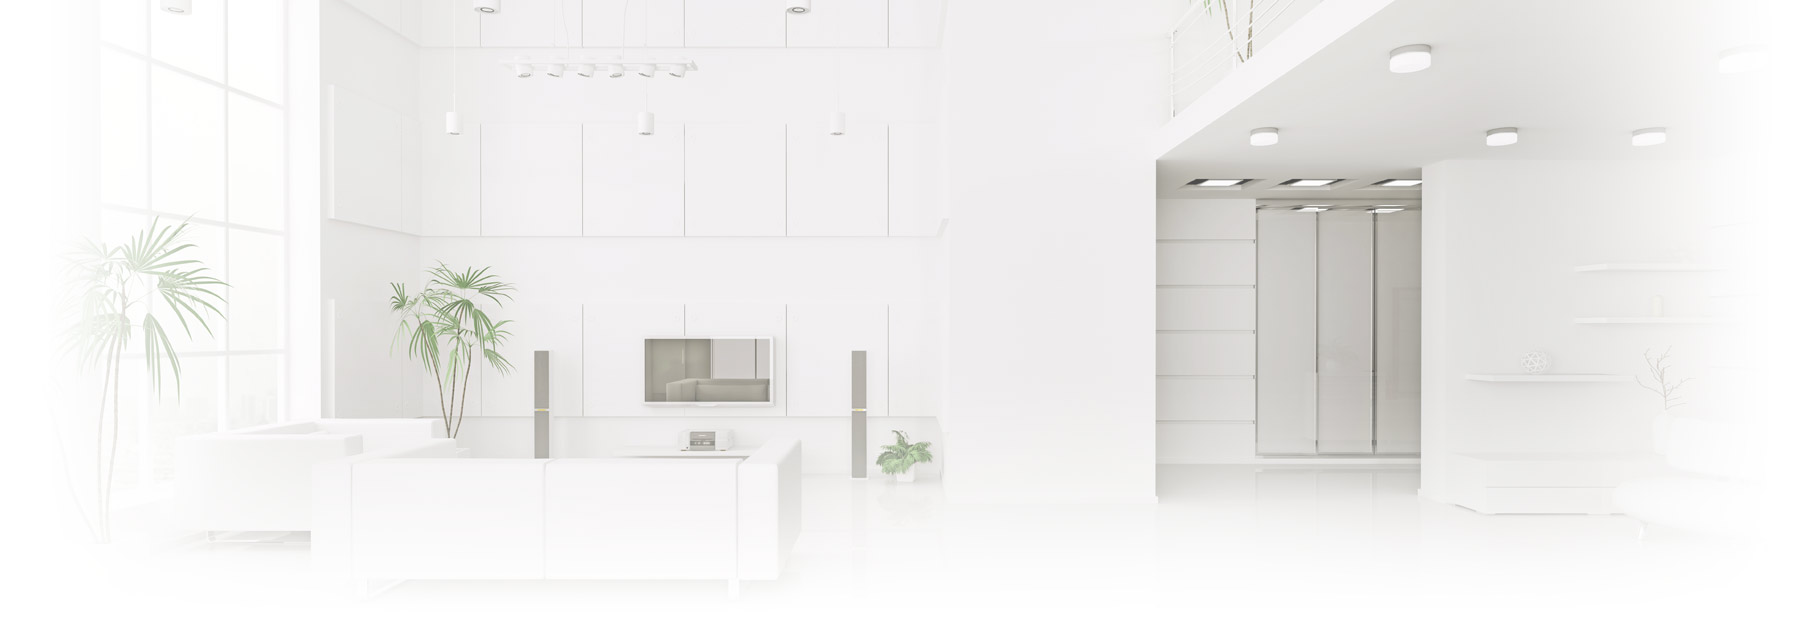
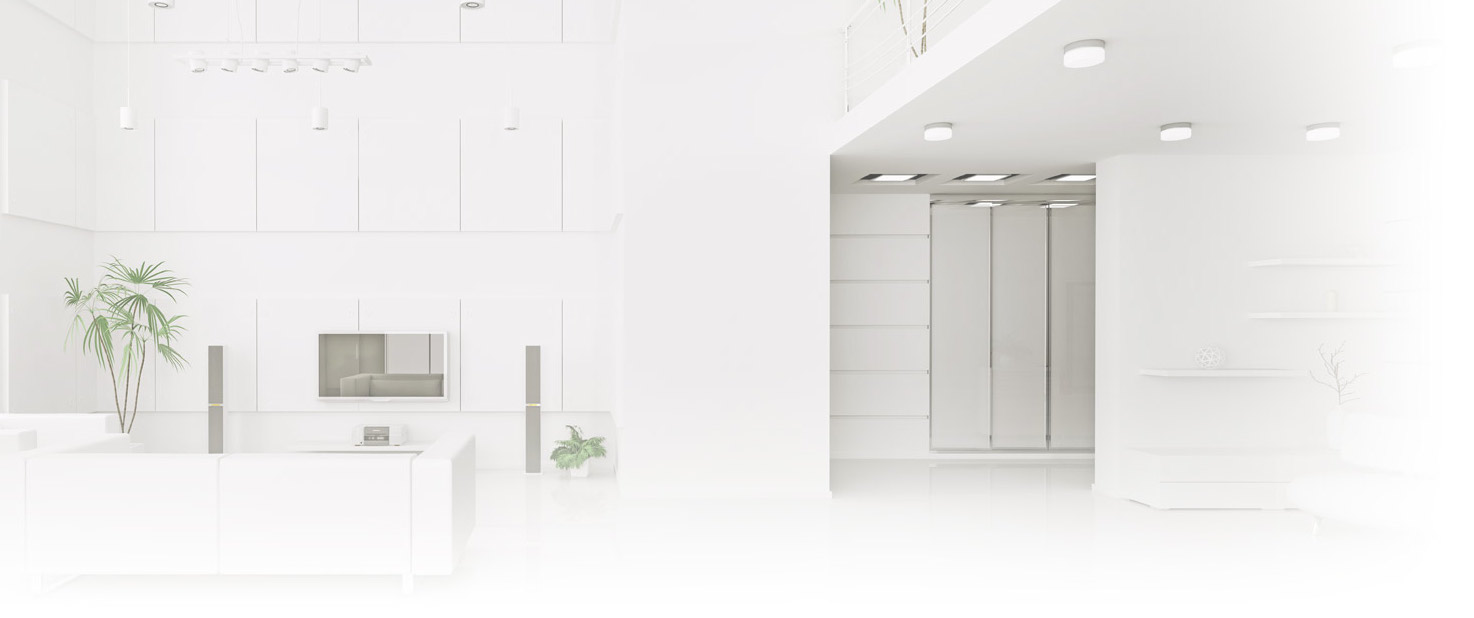
Completed modal and contact page

diff --git a/static/static/css/style.css b/static/static/css/style.css
@@ -34,7 +34,7 @@ header{float: left;}
 .phone1 .txt1{font-size: 14px; color: #fff; line-height: 20px;}
 .phone1 .txt2{font-size: 26px; color: #fff; line-height: 30px; font-weight: 700;}
 
-.shadow1{vertical-align: top; line-height: 1px;}
+.shadow1{vertical-align: top; line-height: 1px; margin-bottom:-90px;}
 .shadow1 img{width: 100%;}
 
 
@@ -162,10 +162,39 @@ transition: all 0.3s ease-out; -moz-transition: all 0.3s ease-out; -webkit-trans
 #modal-form input{background: #DEEEFC; border: 1px solid #516B82; color: #686868; padding-top: 10px; padding-bottom: 10px; border-radius:7px; -moz-border-radius:7px; -webkit-border-radius:7px; -moz-box-shadow: inset  0px 3px 20px 3px  #f6f4f2; -webkit-box-shadow: inset  0px 3px 20px 3px  #f6f4f2; box-shadow: inset  0px 3px 20px 3px  #f6f4f2; width: 100%; display: block;-webkit-box-sizing: border-box; -moz-box-sizing: border-box; box-sizing: border-box; height: auto;}
 #modal-form input:focus {border-color:#686868; }
 #modal-form img{float:left; width:170px; height:42px;margin-bottom: 10px;}
-#modal-form .submit{border: 0; margin: 0; display: inline-block;height: 44px; line-height:44px;  text-decoration: none;font-size:18px; font-family:'Roboto'; font-weight: 700; color:#fff; white-space:nowrap; letter-spacing:0px; background:#32A4C9; padding:0px 30px; border-radius:5px; -moz-border-radius:5px; -webkit-border-radius:5px;
+#modal-form .submit{border: 0; margin: 0; display: inline-block;height: 44px; line-height:44px;  text-decoration: none;font-size:18px; font-family:'Roboto'; font-weight: 700; color:#fff; white-space:nowrap; letter-spacing:0px; background:#32A4C9; padding:0px 20%; border-radius:5px; -moz-border-radius:5px; -webkit-border-radius:5px;
 transition: all 0.3s ease-out; -moz-transition: all 0.3s ease-out; -webkit-transition: all 0.3s ease-out; -o-transition: all 0.3s ease-out;
 }
 #modal-form .submit:hover{ color:#fff; background: #308fae;}
+#myModalLabel { font-family:'Roboto'; font-weight:700; font-size:28px; color:#535353; line-height:35px; padding:25px 0 20px 0; margin: 0;}
+
+#modal-btn{
+border: 0; 
+margin: 0;
+position: fixed;
+display: inline-block;
+top: 350px;
+z-index: 100;
+right: -77px;
+height: 22px; 
+line-height:20px;  
+text-decoration: none;
+font-size:18px; 
+font-family:'Roboto'; 
+font-weight: 700; 
+color:#fff; 
+white-space:nowrap; 
+letter-spacing:0px; 
+background:#32A4C9; 
+padding:0px 15px; 
+transform:rotate(90deg);
+-ms-transform:rotate(90deg);
+-webkit-transform:rotate(90deg);
+border-radius:11px; 
+-moz-border-radius:11px; 
+-webkit-border-radius:11px;
+}
+#modal-btn:hover{ color:#fff; background: #308fae;}
 
 
 /* ============================= main layout ====================== */
@@ -360,16 +389,22 @@ transition: all 0.3s ease-out; -moz-transition: all 0.3s ease-out; -webkit-trans
 #ajax-contact-form .control-group{margin-bottom: 10px;}
 #ajax-contact-form .control-label{display: none;}
 #ajax-contact-form .controls{margin-left: 0;}
-#ajax-contact-form input, #ajax-contact-form textarea{background: #fff; border: 1px solid #e3e2e2; color: #686868; padding-top: 10px; padding-bottom: 10px; border-radius:0px; -moz-border-radius:0px; -webkit-border-radius:0px; -moz-box-shadow: inset  0px 3px 20px 3px  #f6f4f2; -webkit-box-shadow: inset  0px 3px 20px 3px  #f6f4f2; box-shadow: inset  0px 3px 20px 3px  #f6f4f2; width: 100%; display: block;-webkit-box-sizing: border-box; -moz-box-sizing: border-box; box-sizing: border-box; height: auto;}
+#ajax-contact-form input, #ajax-contact-form textarea{background: transparent; border: 1px solid #C4C4C4; color: #686868; padding-top: 10px; padding-bottom: 10px; border-radius:5px; -moz-border-radius:5px; -webkit-border-radius:5px; -moz-box-shadow: inset  0px 3px 20px 3px  #f6f4f2; -webkit-box-shadow: inset  0px 3px 20px 3px  #f6f4f2; box-shadow: inset  0px 3px 20px 3px  #f6f4f2; width: 100%; display: block;-webkit-box-sizing: border-box; -moz-box-sizing: border-box; box-sizing: border-box; height: auto;}
 #ajax-contact-form input:focus, #ajax-contact-form textarea:focus{border-color:#686868; }
 #ajax-contact-form textarea{height: 124px;}
 #ajax-contact-form .control-group.capthca{margin-bottom: 0px;}
 #ajax-contact-form .capthca input{width: 126px; float: left; margin-right: 30px;margin-bottom: 10px;}
 #ajax-contact-form img{float:left; width:170px; height:42px;margin-bottom: 10px;}
-#ajax-contact-form .submit{border: 0; margin: 0; display: inline-block;height: 44px; line-height:44px;  text-decoration: none;font-size:18px; font-family:'Roboto'; font-weight: 700; color:#fff; white-space:nowrap; letter-spacing:0px; background:#308fae; padding:0px 30px; border-radius:5px; -moz-border-radius:5px; -webkit-border-radius:5px;
+#ajax-contact-form .submit{border: 0; margin: 0; display: inline-block;height: 44px; line-height:44px;  text-decoration: none;font-size:18px; font-family:'Roboto'; font-weight: 700; color:#fff; white-space:nowrap; letter-spacing:0px; background:#32A4c9; padding:0px 30px; border-radius:5px; -moz-border-radius:5px; -webkit-border-radius:5px;
 transition: all 0.3s ease-out; -moz-transition: all 0.3s ease-out; -webkit-transition: all 0.3s ease-out; -o-transition: all 0.3s ease-out;
 }
-#ajax-contact-form .submit:hover{ color:#fff; background: #be3b3b;}
+#ajax-contact-form .submit:hover{ color:#fff; background: #308FAE;}
+
+/* ========= Contact Table ========== */
+#contact_box {margin-bottom: 20px;}
+#contact_box td{padding: 5px 5%;}
+#contact_box th{padding: 5px 5%;}
+
 
 /*================= 404 =========================*/
 .page-404{text-align: center;}
@@ -458,12 +493,13 @@ transition: all 0.3s ease-out; -moz-transition: all 0.3s ease-out; -webkit-trans
 
 	h2{ font-size:18px; line-height:25px;}
 
-	h3{font-size:18px; line-height:25px;}
+	h3{ font-size:18px; line-height:25px;}
 
 		
 }
 @media (min-width: 481px) and (max-width: 767px) {
 	.banners .banner_inner{padding: 0 80px;}
+   #content {padding-top:65px;}
 
 	
 
@@ -484,7 +520,7 @@ transition: all 0.3s ease-out; -moz-transition: all 0.3s ease-out; -webkit-trans
 
 	.page-404 .txt1{font-size: 150px; line-height: 150px;}
 	.page-404 .txt2{font-size: 50px; line-height: 50px;}
-
+   #content {padding-top:65px;}
 
 
 }

diff --git a/static/templates/contact.html b/static/templates/contact.html
@@ -40,61 +40,78 @@ $(window).load(function() {
 <div class="row">
 <div class="span6">
 
-<h1>Our Location</h1>	
+<h1>Contact Us</h1>	
 
-<h4>Paint Studio</h4>
-<p>
-Kansas City, MO 64106<br>
-Telephone: +1 800 123 1895<br>
-E-mail: <a href="#">mail@bteamny.com</a>
-</p>
-<br>
-<h4>Hours?</h4>
-<p>
-Kansas City, MO 64106<br>
-Telephone: +1 800 123 1895<br>
-E-mail: <a href="#">mail@bteamny.com</a>
-</p>
+<div id="contact_box" class="box3">
+<div class="box3_inner">
+   
+<table>
+<tbody>
+<tr>
+	<th><strong>Address:</strong></th>
+	<td>1616 W. 6th Street<br>
+		 Unit 234<br>
+		 Austin, TX 78703</td>
+</tr>
+<tr>
+	<th><strong>Phone:</strong></th>
+	<td><a href="tel:1-512-282-2912">(512) 282-2912</a></td>
+</tr>
+	<tr>
+	<th><strong>Fax:</strong></th>
+	<td><a href="tel:1-512-821-4700">(512) 821-4700</a></td>
+</tr>
+	<tr>
+	<th><strong>Email:</strong></th>
+	<td><a href="mailto:admin@bizwiggle.com">admin@bizwiggle.com</a></td>
+</tr>
+</tbody>
+</table>
+</div>
+</div> 
 
 <figure class="google_map">
-    <iframe src="http://maps.google.com/maps?f=q&amp;source=s_q&amp;hl=en&amp;geocode=&amp;q=Glasgow,&amp;aq=&amp;sll=46.975033,31.994583&amp;sspn=0.368248,0.617294&amp;vpsrc=6&amp;ie=UTF8&amp;hq=&amp;hnear=Glasgow,+Glasgow+City,+United+Kingdom&amp;t=m&amp;ll=55.866932,-4.256344&amp;spn=0.020324,0.070896&amp;z=13&amp;output=embed"></iframe>
+<iframe
+  frameborder="0" style="border:0"
+  src="https://www.google.com/maps/embed/v1/place?key=AIzaSyBgIq9fGzbDd9X1R7TseTnu-f_-ICCLf-0&zoom=13&q=1616+W. 6th Street,Austin+TX">
+</iframe>
+
 </figure>
 
 </div>
 
 <div class="span6">
-<h2>Contact Us</h2>
+<h2>Send Us a Message</h2>
 
 <div id="note"></div>
 <div id="fields">
-	<form id="ajax-contact-form" class="form-horizontal" action="javascript:alert('success!');">
+	<form id="ajax-contact-form" class="form-horizontal" action="">
 		
 		<div class="control-group">
-		    <label class="control-label" for="inputName">Your full name:</label>
+		    <label class="control-label" for="inputName">Name:</label>
 		    <div class="controls">				      
-		      <input class="" type="text" id="inputName" name="name" value="Name:" onBlur="if(this.value=='') this.value='Your full name:'" onFocus="if(this.value =='Your full name:' ) this.value=''">
+		      <input class="" type="text" id="inputName" name="name" value="" placeholder="Name:">
 		    </div>
 		</div>
 
 		<div class="control-group">
 		    <label class="control-label" for="inputEmail">Your email:</label>
 		    <div class="controls">				      
-		      <input class="" type="text" id="inputEmail" name="email" value="Email:" onBlur="if(this.value=='') this.value='Your email:'" onFocus="if(this.value =='Your email:' ) this.value=''">
+		      <input class="" type="text" id="inputEmail" name="email" value="" placeholder="Email:">
 		    </div>
 		</div>
 
 		<div class="control-group">
 		    <label class="control-label" for="inputPhone">Phone number:</label>
 		    <div class="controls">				      
-		      <input class="" type="text" id="inputPhone" name="phone" value="Phone number:" onBlur="if(this.value=='') this.value='Phone number:'" onFocus="if(this.value =='Phone number:' ) this.value=''">
+		      <input class="" type="text" id="inputPhone" name="phone" value="" placeholder="Phone:">
 		    </div>
 		</div>
 
 		<div class="control-group">
 		    <label class="control-label" for="inputMessage">Message:</label>
 		    <div class="controls">				      				      
-		      <textarea class="" id="inputMessage" name="content" onBlur="if(this.value=='') this.value='Message:'" 
-                onFocus="if(this.value =='Message:' ) this.value=''">Message:</textarea>
+		      <textarea class="" id="inputMessage" name="message" value="" placeholder="Message:"></textarea>
 		    </div>
 		</div>
 

diff --git a/static/templates/modal.html b/static/templates/modal.html
@@ -1,6 +1,3 @@
-<!-- Button to trigger modal -->
-<a href="#myModal" role="button" class="btn" data-toggle="modal">Launch demo modal</a>
- 
 <!-- Modal -->
 <div id="myModal" class="modal hide fade" tabindex="-1" role="dialog" aria-labelledby="myModalLabel" aria-hidden="true">
   <div class="modal-header">
@@ -30,8 +27,9 @@
             <input class="" type="text" id="inputPhone" name="phone" placeholder="Phone: ">
           </div>
       </div>
+    <div class="text-center">
     <button type="submit" class="submit">Submit</button>
- 
+    </div>
    </form>
    </div>
 </div>

diff --git a/static/templates/base.html b/static/templates/base.html
@@ -43,7 +43,7 @@
 <div class="phone1_wrapper">
 <div class="phone1">
 	<div class="txt1">Schedule an Estimate</div>
-	<div class="txt2">Phone Number Here</div>
+	<div class="txt2">512 555-5555</div>
 </div>	
 </div>
 </div>	
@@ -85,6 +85,10 @@
 </div>	
 </div>	
 </div>
+
+<!-- Button to trigger modal -->
+<a href="#myModal" role="button" id="modal-btn" data-toggle="modal">Request Estimate</a>
+{% include 'modal.html' %}
 
 {% block content %} {% endblock %}
 

diff --git a/static/templates/bottom_banner.html b/static/templates/bottom_banner.html
@@ -9,7 +9,7 @@
 <div class="txt1">Banner Test will go here</div>
 </div>
 <div class="span4">
-<div class="txt2"><a href="{% url 'contact' %}">Request Free Estimate</a></div>	
+<div class="txt2"><a href="#myModal" role="button" data-toggle="modal">Request Free Estimate</a></div>	
 </div>	
 </div>	
 </div>	

diff --git a/static/templates/index.html b/static/templates/index.html
@@ -36,7 +36,6 @@ $(window).load(function() {
 {% block content %} 
   
 {% include "slider.html" %}
-
 <div class="shadow1">
 <div class="container">
 <div class="row">
@@ -149,8 +148,6 @@ $(window).load(function() {
 	</div>
 </div>
 
-{% include 'modal.html' %}
-	
 </div>	
 <div class="span4">
 	
